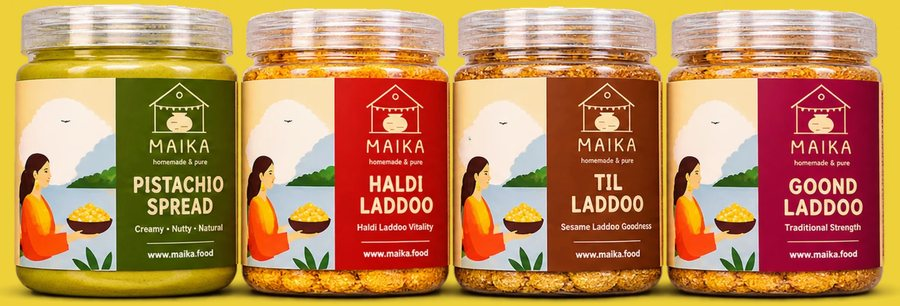
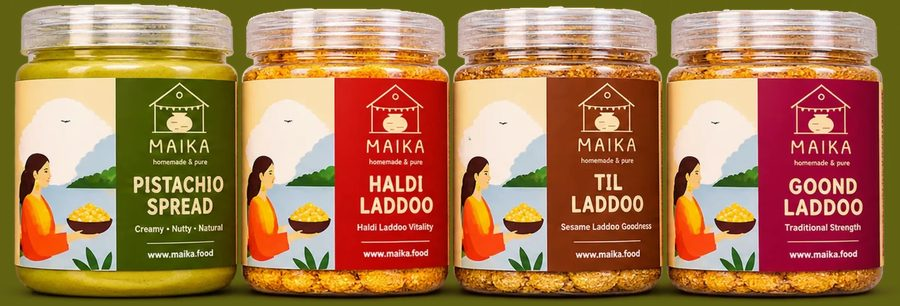
Hero: green background with golden headline and links
Header items turn gold while floating over the green hero and go back
to the usual colours once scrolled or with the phone menu open.
Fallback jar image redrawn on green; browser theme colour now green.

Claude-Session: https://claude.ai/code/session_01JSvYuBKGaEHwDGZNMQEDCy

Changed region(s): [[0.0, 0.0, 1.0, 1.0]]

diff --git a/index.html b/index.html
@@ -5,7 +5,7 @@
 <meta name="viewport" content="width=device-width, initial-scale=1">
 <title>Maika · Maike ka swaad</title>
 <meta name="description" content="Homemade winter laddoos, panjiri and achaar, made by Maa in small batches with desi ghee and gur.">
-<meta name="theme-color" content="#EDD03A">
+<meta name="theme-color" content="#606212">
 <link rel="preconnect" href="https://fonts.googleapis.com">
 <link rel="preconnect" href="https://fonts.gstatic.com" crossorigin>
 <link href="https://fonts.googleapis.com/css2?family=Inter+Tight:wght@400;500;600;700&family=Indie+Flower&family=Nothing+You+Could+Do&family=Space+Mono:wght@400;700&family=Lilita+One&family=Mali:wght@300;400&family=Patrick+Hand&family=Albert+Sans:wght@500&family=Gloock&family=Young+Serif&family=Figtree:wght@400;500;600;800&family=Tiro+Devanagari+Hindi&display=swap" rel="stylesheet">
@@ -126,6 +126,28 @@
   .sub-menu-toggle::before { content: ""; width: 10px; height: 10px; border-right: 2px solid currentColor; border-bottom: 2px solid currentColor; transform: rotate(45deg) translateY(-2px); transition: transform .2s ease; }
   .has-sub.sub-menu-open .sub-menu-toggle::before { transform: rotate(-135deg) translateY(-2px); }
 
+  /* Header floating over the green hero: same items, colours swapped. Once scrolled it is golden again. */
+  body:not(.mobile-menu-active) .site-header:not(.is-scrolled) .announce { background: var(--gold); color: var(--olive); }
+  body:not(.mobile-menu-active) .site-header:not(.is-scrolled) .announce__btn:hover { background: rgba(96, 98, 18, .14); }
+  body:not(.mobile-menu-active) .site-header:not(.is-scrolled) .announce__btn:focus-visible { outline-color: var(--olive); }
+  body:not(.mobile-menu-active) .site-header:not(.is-scrolled) .nav-logo svg { color: var(--gold); }
+  body:not(.mobile-menu-active) .site-header:not(.is-scrolled) .nav-logo:focus-visible { outline-color: var(--gold); }
+  body:not(.mobile-menu-active) .site-header:not(.is-scrolled) .header-nav__list > li > a { color: var(--gold); }
+  body:not(.mobile-menu-active) .site-header:not(.is-scrolled) .header-nav__list > li > a::before { background: var(--gold); }
+  body:not(.mobile-menu-active) .site-header:not(.is-scrolled) .header-nav__list > li > a:hover,
+  body:not(.mobile-menu-active) .site-header:not(.is-scrolled) .header-nav__list > li > a:focus-visible,
+  body:not(.mobile-menu-active) .site-header:not(.is-scrolled) .header-nav__list > li.has-mega.is-open > a { color: #FFF8E7; }
+  body:not(.mobile-menu-active) .site-header:not(.is-scrolled) .header-nav__list > li > a:focus-visible { outline-color: var(--gold); }
+  body:not(.mobile-menu-active) .site-header:not(.is-scrolled) .nav-pill { border-color: var(--gold); }
+  body:not(.mobile-menu-active) .site-header:not(.is-scrolled) .nav-pill a { color: var(--gold); }
+  body:not(.mobile-menu-active) .site-header:not(.is-scrolled) .nav-pill a:hover { color: #FFF8E7; background: rgba(237, 208, 58, .14); }
+  body:not(.mobile-menu-active) .site-header:not(.is-scrolled) .nav-pill a:focus-visible { outline-color: var(--gold); }
+  body:not(.mobile-menu-active) .site-header:not(.is-scrolled) .nav-pill .sep { background: var(--gold); }
+  body:not(.mobile-menu-active) .site-header:not(.is-scrolled) .cart-count { background: var(--gold); color: var(--olive); }
+  body:not(.mobile-menu-active) .site-header:not(.is-scrolled) .mobile-menu-toggle { background: var(--gold); color: var(--olive); }
+  body:not(.mobile-menu-active) .site-header:not(.is-scrolled) .mobile-menu-toggle:focus-visible { outline-color: var(--gold); }
+  .announce, .nav-pill, .nav-pill .sep, .cart-count, .mobile-menu-toggle, .nav-logo svg { transition: background-color .25s ease, color .25s ease, border-color .25s ease, transform .2s ease; }
+
   @media (max-width: 1279px) {
     :root { --announce-h: 40px; --row-h: 92px; --logo-w: 96px; --head-top: 12px; }
     .header-nav { display: none; }
@@ -156,19 +178,19 @@
   /* ---------- Hero ----------
      A giant headline fills the screen; the four jars stand in front of its lower half;
      a row of product links sits underneath. */
-  .hero-block { --avail: calc(100svh - var(--header-h)); position: relative; width: 100%; min-height: 100svh; overflow: hidden; background: #EDD03A; color: #606212; }
+  .hero-block { --avail: calc(100svh - var(--header-h)); position: relative; width: 100%; min-height: 100svh; overflow: hidden; background: #606212; color: #EDD03A; }
   @supports not (height: 100svh) { .hero-block { --avail: calc(100vh - var(--header-h)); min-height: 100vh; } }
   .hero-inner { position: relative; z-index: 2; min-height: inherit; display: flex; flex-direction: column; align-items: center; justify-content: center; padding: calc(var(--header-h) + 8px) var(--pad) 28px; text-align: center; }
 
   .hero-inner { --fs: min(10.4vw, calc(var(--avail) * .178)); }
-  .hero-title { margin: 0; font-family: 'Lilita One', 'Fredoka', system-ui, sans-serif; font-weight: 400; font-size: var(--fs); line-height: .9; letter-spacing: -.02em; text-transform: uppercase; color: #606212; text-wrap: balance; max-width: 15ch;
+  .hero-title { margin: 0; font-family: 'Lilita One', 'Fredoka', system-ui, sans-serif; font-weight: 400; font-size: var(--fs); line-height: .9; letter-spacing: -.02em; text-transform: uppercase; color: #EDD03A; text-wrap: balance; max-width: 15ch;
     -webkit-text-stroke: .02em currentColor; paint-order: stroke fill; }
   /* taller, heavier letters to match the hand-lettered 'Homemade & Pure Goodness' artwork */
   .hero-title span { display: block; white-space: nowrap; transform: scaleY(1.28); margin-block: .13em; }
   .hero-title .t-narrow { display: none; }
 
   .hero-jars { position: relative; z-index: 3; width: min(78vw, 1400px, calc(var(--avail) * 1.42)); margin-top: calc(var(--fs) * -.42); }
-  .hero-jars img { display: block; width: 100%; height: auto; filter: drop-shadow(0 18px 22px rgba(74, 75, 14, .28)); }
+  .hero-jars img { display: block; width: 100%; height: auto; filter: drop-shadow(0 18px 22px rgba(30, 31, 4, .45)); }
   .hero-jars picture { display: block; }
   .js .hero-jars { animation: jars-in 1.1s cubic-bezier(.2, .8, .2, 1) both .15s; }
   .js .hero-jars picture { animation: jars-float 6s ease-in-out 1.4s infinite; }
@@ -177,10 +199,10 @@
 
   .hero-links { margin-top: clamp(14px, 2.4vh, 28px); }
   .hero-links ul { list-style: none; margin: 0; padding: 0; display: flex; flex-wrap: wrap; justify-content: center; gap: 10px clamp(22px, 4vw, 64px); }
-  .hero-links a { position: relative; display: inline-block; padding: 6px 2px; color: #606212; font-family: var(--mono); font-weight: 700; font-size: clamp(14px, 1.35vw, 19px); letter-spacing: .04em; text-transform: uppercase; text-decoration: none; }
-  .hero-links a::after { content: ""; position: absolute; left: 2px; right: 2px; bottom: 0; height: 3px; border-radius: 3px; background: #606212; transform: scaleX(0); transform-origin: left; transition: transform .25s ease; }
+  .hero-links a { position: relative; display: inline-block; padding: 6px 2px; color: #EDD03A; font-family: var(--mono); font-weight: 700; font-size: clamp(14px, 1.35vw, 19px); letter-spacing: .04em; text-transform: uppercase; text-decoration: none; }
+  .hero-links a::after { content: ""; position: absolute; left: 2px; right: 2px; bottom: 0; height: 3px; border-radius: 3px; background: #EDD03A; transform: scaleX(0); transform-origin: left; transition: transform .25s ease; }
   .hero-links a:hover::after, .hero-links a:focus-visible::after, .hero-links a[aria-current="true"]::after { transform: scaleX(1); }
-  .hero-links a:focus-visible { outline: 2px dashed #606212; outline-offset: 4px; }
+  .hero-links a:focus-visible { outline: 2px dashed #EDD03A; outline-offset: 4px; }
 
   /* Narrower screens: headline wraps onto more lines */
   @media (max-width: 899px) {
